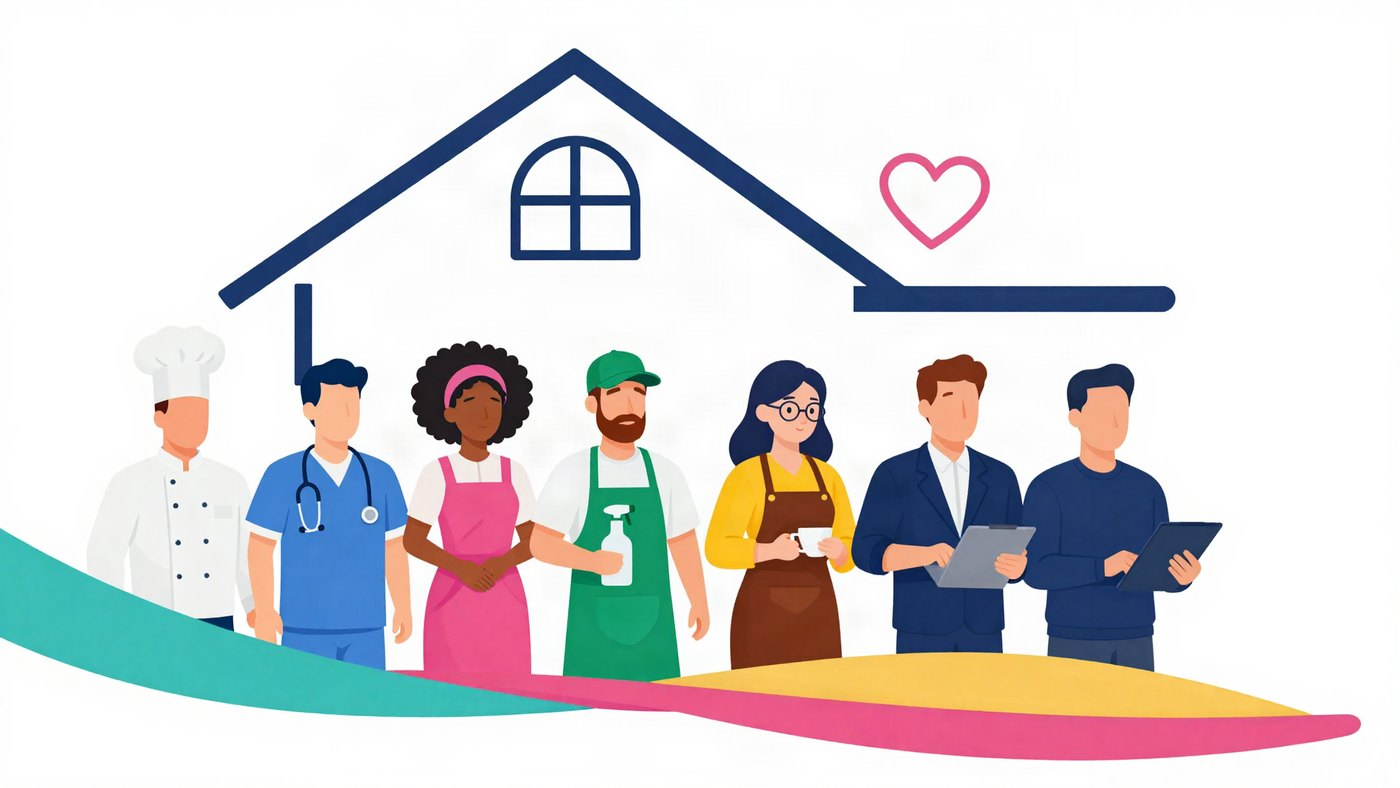
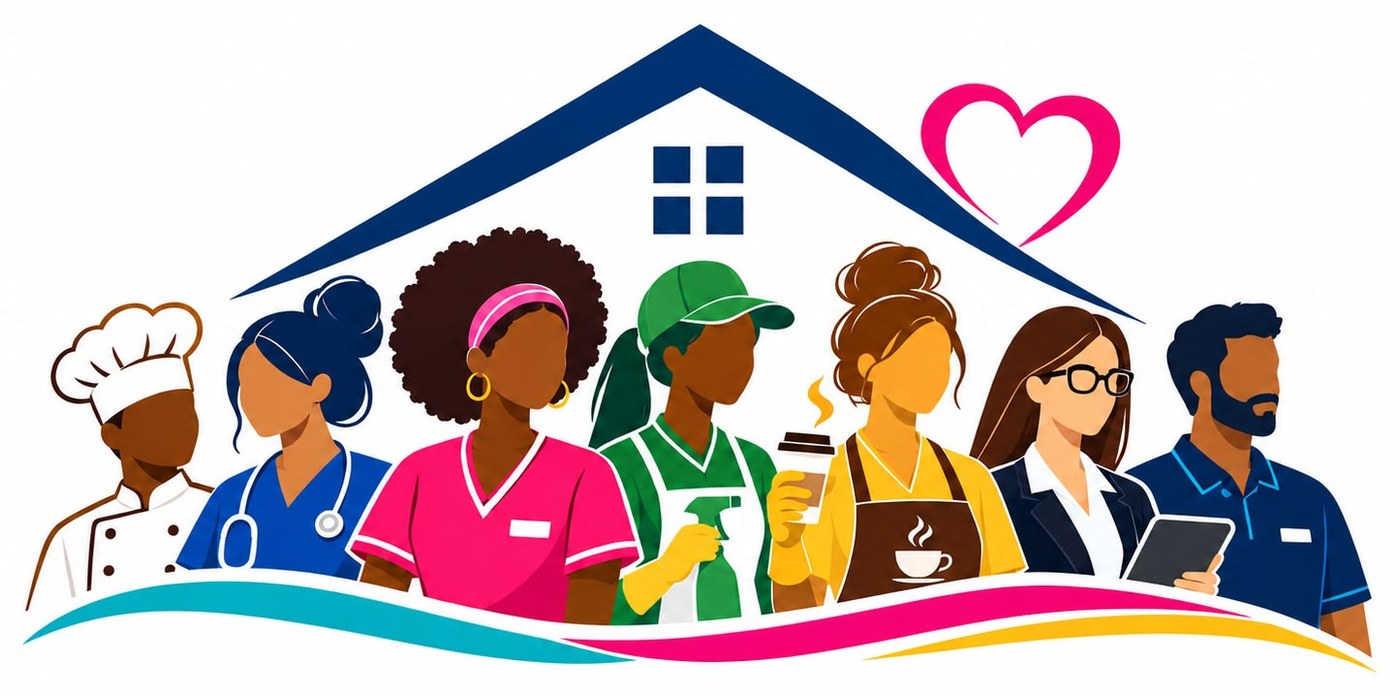
Use the client's team illustration on About us and For candidates
Claude-Session: https://claude.ai/code/session_018ADX3SAHKUZDBiV8MVV5AD

diff --git a/wp-content/themes/hcc-temps/templates/about.php b/wp-content/themes/hcc-temps/templates/about.php
@@ -34,7 +34,7 @@ get_header();
 	<section class="section alt">
 		<div class="wrap">
 			<div class="sec-head"><span class="eyebrow">What we stand for</span><h2>Why clients and candidates choose us</h2></div>
-			<figure class="illo"><img src="<?php echo esc_url( hcc_img( 'team-illustration.jpg' ) ); ?>" alt="Illustration of a chef, nurse, carer, cleaner, barista, receptionist and support worker together under one roof" width="1400" height="788" loading="lazy"></figure>
+			<figure class="illo"><img src="<?php echo esc_url( hcc_img( 'team-illustration.jpg' ) ); ?>" alt="Illustration of a chef, nurse, carer, cleaner, barista, receptionist and support worker together under one roof" width="1400" height="696" loading="lazy"></figure>
 			<div class="values">
 				<?php foreach ( array( array( 'aqua', 'Reliability', 'When we say someone is coming, they come.' ), array( 'navy', 'A steady supply of staff', 'A large pool of checked candidates ready for shifts.' ), array( 'coral', 'Fully vetted', 'DBS, right to work and certificates checked before day one.' ), array( 'sun', 'Caring for vulnerable people', 'Our staff support people who depend on them, and we never forget it.' ), array( 'cocoa', 'We care about everyone', 'Clients and candidates both get a team that listens and calls back.' ), array( 'aqua-deep', 'Cover, fast', 'Emergency cover within 2 hours, anywhere in the UK.' ) ) as $v ) : ?>
 					<div class="value"><span class="dot" style="background:var(--<?php echo esc_attr( $v[0] ); ?>)"></span><h3><?php echo esc_html( $v[1] ); ?></h3><p><?php echo esc_html( $v[2] ); ?></p></div>

diff --git a/wp-content/themes/hcc-temps/templates/register.php b/wp-content/themes/hcc-temps/templates/register.php
@@ -26,7 +26,7 @@ $focus = array( 'nurse' => '28% 30%', 'chef' => '50% 20%' );
 				<h2>From sign-up to your first shift</h2>
 				<p>Everything happens in your own candidate portal, step by step.</p>
 			</div>
-			<figure class="illo"><img src="<?php echo esc_url( hcc_img( 'team-illustration.jpg' ) ); ?>" alt="Illustration of a chef, nurse, carer, cleaner, barista, receptionist and support worker together under one roof" width="1400" height="788" loading="lazy"></figure>
+			<figure class="illo"><img src="<?php echo esc_url( hcc_img( 'team-illustration.jpg' ) ); ?>" alt="Illustration of a chef, nurse, carer, cleaner, barista, receptionist and support worker together under one roof" width="1400" height="696" loading="lazy"></figure>
 			<ol class="reg-steps">
 				<li><b>Check what you need</b><span>Choose your role below and see the documents to have ready.</span></li>
 				<li><b>Create your account</b><span>Name, contact details and a password. Accept the terms and privacy policy.</span></li>
